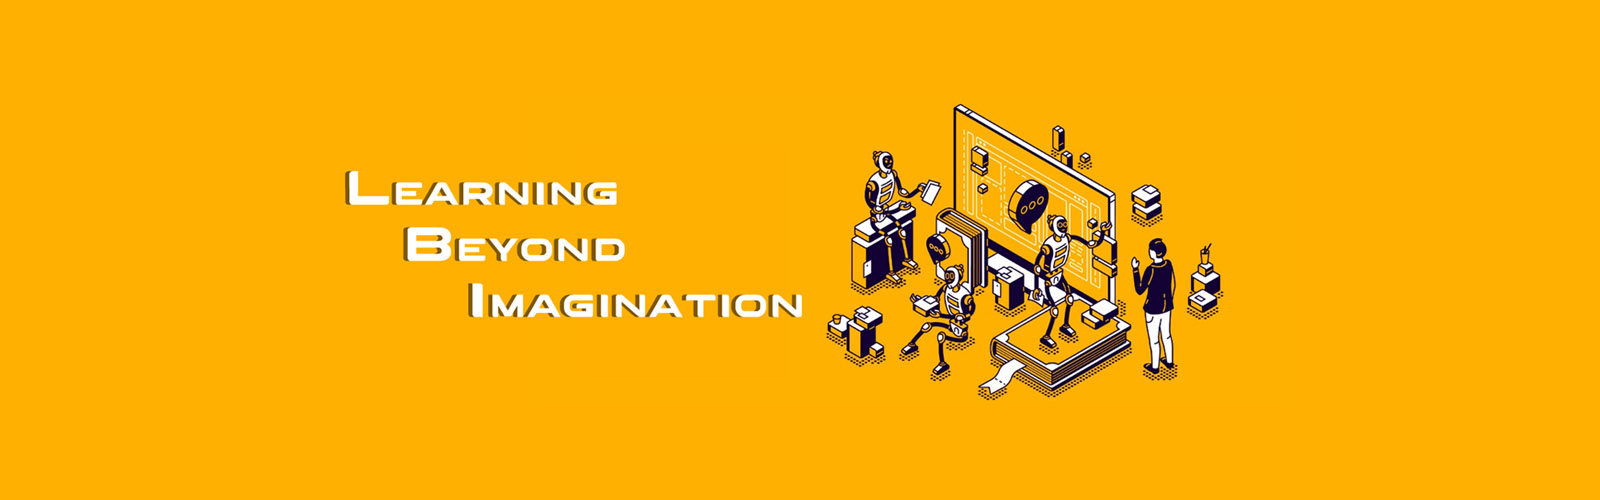
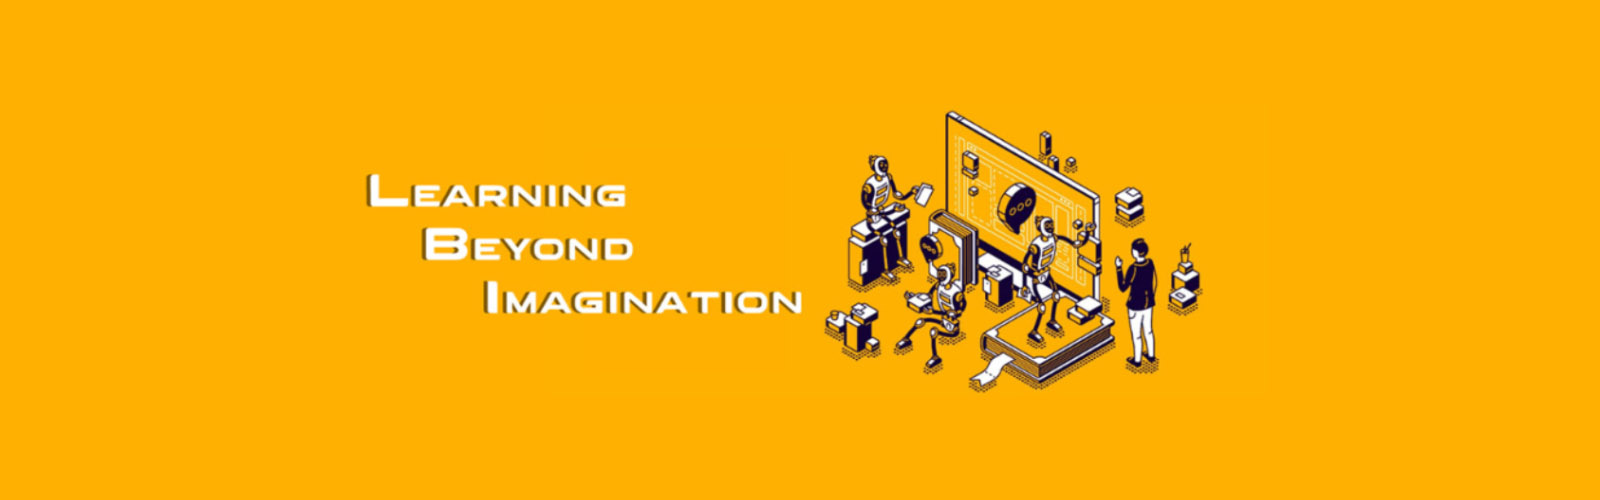
Changes asked

Changed region(s): [[0.25, 0.21, 0.7812, 0.81], [0.2188, 0.33, 0.4062, 0.42]]

diff --git a/about.html b/about.html
@@ -172,13 +172,19 @@
     <div class="row">
       <div class="col-md-7 wow fadeInLeft" data-wow-delay="300ms">
        <h2 class="heading heading_space">Welcome to SS TOPKLAS <span class="divider-left"></span></h2>
-       <p class="bottom25" style="text-align: justify;"> In the last 2 decades, Digital Technologies have entered deeply into the education sector, particularly, K 12 Education. It is common knowledge that digital content is viewed as a Text Book in digital format, Video Lecturing, and other primitive Learning Techniques. The video lectures are very monotonous and boring, thus, achieving very limited success. Hence, we innovated, learner-centric Learning Solutions using Artificial Intelligence (Al), Augmented Reality (AR) and effective purposeful utilization of Touch Screen Technologies with specific objectives: A module for NEET/JEE/ Annual Exam Preparation A Large Data Base of Q&A is built to Learn, Test and Evaluate with following Testing Objectives: Test Level for Class (+1 Or +2)/Subject-Wise/Unit-Wise Performances of Individual/Cumulative/Relative Including Performance Improvement Indicators</p>
+       <p style="text-align: justify;"> In the last 2 decades, Digital Technologies have entered deeply into the education sector, particularly, K 12 Education.</p>
+        <p style="text-align: justify;"> It is common knowledge that digital content is viewed as a Text Book in digital format, Video Lecturing, and other primitive Learning Techniques.</p>
+        <p style="text-align: justify;">  The video lectures are very monotonous and boring, thus, achieving very limited success. Hence,</p>
         
-        <ul style="list-style-type: square; margin-left: 20px" > 
-          <li style="text-align: justify;"><strong>SS Topklas is aimed at aiding and enhancing Class Room Teaching and Self-Learning, and will not isolate these core activities of School Education </strong></li>
-          <li style="text-align: justify;"><strong>Broad-based solution for all students of the class and supplementing the teaching/learning with effective Technological Aids </strong></li>
-          <li style="text-align: justify;"><strong>SS Topklas is customized and mapped to the curriculum — Chapter-wise & Topic-wise</strong></li>
-          <li style="text-align: justify; margin-bottom: 10px;"><strong>Scoring Marks and making learners gain fundamentals and retain the knowledge</strong></li>
+        <ul style="list-style-type: square; margin-left: 30px" > 
+          <li style="text-align: justify;">We innovated, learner-centric Learning Solutions using Artificial Intelligence (Al), Augmented Reality (AR) and effective purposeful utilization of Touch Screen Technologies with specific objectives.</li>
+          <li style="text-align: justify; margin-top: 10px;" >A module for NEET/JEE/ Annual Exam Preparation.</li>
+          <li style="text-align: justify;  margin-top: 10px;">A Large Data Base of Q&A is built to Learn, Test and Evaluate.</li>
+          <li style="text-align: justify;  margin-top: 10px;">Test Level for Class (+1 Or +2) / Subject-Wise/Unit-Wise Performances of Individual/Cumulative/Relative Including Performance Improvement Indicators</li>
+          <li style="text-align: justify;  margin-top: 10px;">SS Topklas is aimed at aiding and enhancing Class Room Teaching and Self-Learning, and will not isolate these core activities of School Education</li>
+          <li style="text-align: justify;  margin-top: 10px;">Broad-based solution for all students of the class and supplementing the teaching/learning with effective Technological Aids</li>
+          <li style="text-align: justify;  margin-top: 10px;">SS Topklas is customized and mapped to the curriculum — Chapter-wise & Topic-wise</li>
+          <li style="text-align: justify;  margin-top: 10px; margin-bottom: 10px;">Scoring Marks and making learners gain fundamentals and retain the knowledge</li>
         </ul>
       </div>
       <div class="col-md-5 wow fadeInRight" data-wow-delay="300ms">
@@ -187,7 +193,7 @@
         </div>
       </div>
       <div style="padding-top:30px; padding-left: 20px; padding-right: 20px;">
-      <p class="heading" style="text-align: justify; padding-top:30px;">Meeeting with Mr.Jayaprakash Gandhi Career Consultant, Mr.Abdul Mageeth and Dr.Mohamed Nabi<span class="divider-left"></span></p>
+      <p class="heading" style="text-align: justify; padding-top:30px;">Meeting with Mr.Jayaprakash Gandhi Career Consultant, Mr.Abdul Mageeth and Dr.Mohamed Nabi<span class="divider-left"></span></p>
       <div id="projects6" class="cbp-caption-active cbp-caption-pushTop cbp-ready">
         <div class="cbp-item">
           <img src="images/15.jpg" alt="">
@@ -214,12 +220,12 @@
         <h4 class="bottom25">AI and AR, Assisted Virtual Lab and Digital Learning Solution for different K12 Classes.</h4>
 
          <ul style="list-style-type: square; margin-left: 20px" > 
-          <li style="text-align: justify; " ><strong>It consists of 4 modules – Dynamic Content, Virtual Learning, Self-Assessment and Search Engines – promoting, anywhere any time within.</strong></li>
-          <li style="text-align: justify; padding-top: 10px;"><strong>Dynamic content module covers the entire syllabus of respective classes. It is built in a book like structure for detailed content coverage.</strong></li>
-          <li style="text-align: justify; padding-top: 10px;"><strong>Visual Demonstrations are embedded across the text content for easy access and meaningful interpretations. </strong></li>
-          <li style="text-align: justify; padding-top: 10px;"><strong>Example and Exercise problems are explained in visually for better understanding. To provide direct relation of what is studied in classroom with day-to-day life.</strong></li>
-          <li style="text-align: justify; padding-top: 10px;"><strong>The learners will be able to move around between visuals and content directly. This offers Engaged and Guided learning in SS  TOPKLAS.</strong></li>
-          <li style="text-align: justify; padding-top: 10px;"><strong>SS TOPKLAS utilizes virtual and modern technology as its backbone to provide students with “Learning Beyond Imagination” Experience. Also, attain high score in assessments/ board / entrances exams by absolute Learning and Self-assessment. </strong></li>
+          <li style="text-align: justify; " >It consists of 4 modules – Dynamic Content, Virtual Learning, Self-Assessment and Search Engines – promoting, anywhere any time within.</li>
+          <li style="text-align: justify; padding-top: 10px;">Dynamic content module covers the entire syllabus of respective classes. It is built in a book like structure for detailed content coverage.</li>
+          <li style="text-align: justify; padding-top: 10px;">Visual Demonstrations are embedded across the text content for easy access and meaningful interpretations. </li>
+          <li style="text-align: justify; padding-top: 10px;">Example and Exercise problems are explained in visually for better understanding. To provide direct relation of what is studied in classroom with day-to-day life.</li>
+          <li style="text-align: justify; padding-top: 10px;">The learners will be able to move around between visuals and content directly. This offers Engaged and Guided learning in SS  TOPKLAS.</li>
+          <li style="text-align: justify; padding-top: 10px;">SS TOPKLAS utilizes virtual and modern technology as its backbone to provide students with “Learning Beyond Imagination” Experience. Also, attain high score in assessments/ board / entrances exams by absolute Learning and Self-assessment. </li>
         </ul>
         <!-- <a class="btn_common blue border_radius" href="#">Read more</a> -->
       </div>

diff --git a/virtual-learning.html b/virtual-learning.html
@@ -153,8 +153,8 @@
   <div class="container">
     <div class="row">
       <div class="col-md-12 page-content">
-        <h1 style="color: #d2164d;">Virtual Learning</h1>
-        <p style="color: #262261;"><strong>SS Topklas enables students to achieve their Goals. Using Well Integrated Automated guided learning Solutions</strong></p>
+        <!-- <h1 style="color: #d2164d;">Virtual Learning</h1>
+        <p style="color: #262261;"><strong>SS Topklas enables students to achieve their Goals. Using Well Integrated Automated guided learning Solutions</strong></p> -->
         <div class="page_nav">
       <span>You are here:</span> <a href="index.html">Home</a> <span><i class="fa fa-angle-double-right"></i>Virtual Learning</span>
       </div>
@@ -181,22 +181,22 @@
         <h3 class="heading ">Video Hub<span class="divider-left"></span></h3>
         <p class="margin10">Every Subject has a Video HUB. Visuals are provided for every topic and Sub-topics. Real-life examples are used in visuals of different concepts</p>
         <ul class="bottom25" style="list-style-type: square; margin-left: 20px" > 
-          <li style="text-align: justify;"><strong>It also helps to understand the way you draw sketches and practice.</strong></li>
-          <li style="text-align: justify;"><strong>The learners will be able to move around between visuals and content directly. This offers Engaged and Guided learning in SS TOPKLAS</strong></li>
+          <li style="text-align: justify;">It also helps to understand the way you draw sketches and practice.</li>
+          <li style="text-align: justify;">The learners will be able to move around between visuals and content directly. This offers Engaged and Guided learning in SS TOPKLAS</li>
         </ul>
         <h3 class="heading">Virtual Lab<span class="divider-left"></span></h3>
         <p class="margin10">Do your Laboratory Experiments in Interactive 3D Dashboards - as you do in lab. It provides end-to-end interactivity with Step-by-step guidance. Simply, it is making invisible to be visible.</p>
          <ul class="bottom25" style="list-style-type: square; margin-left: 20px" > 
-          <li style="text-align: justify;"><strong>Dashboard also supports parameter variation in the experiment. This will result in performance prediction.</strong></li>
-          <li style="text-align: justify;"><strong>More to this is, you can place your experiment setup in your home and execute the experiment.</strong></li>
+          <li style="text-align: justify;">Dashboard also supports parameter variation in the experiment. This will result in performance prediction.</li>
+          <li style="text-align: justify;">More to this is, you can place your experiment setup in your home and execute the experiment.</li>
         </ul>
         <h3 class="heading">Augmented Reality<span class="divider-left"></span></h3>        
         <p class="margin10">It is taking every space in day-to-day life.</p>
          <ul class="bottom25"style="list-style-type: square; margin-left: 20px" > 
-          <li style="text-align: justify;"><strong>In SS Topklas, Augmented reality is developed by using virtual data. It has been superimposed on the real world. It helps to have real form expressions in learning.</strong></li>
-          <li  style="text-align: justify;"><strong>It includes features of Touch & Play with animations.</strong></li>
-          <li style="text-align: justify;"><strong>Reality 3D models are developed for Physics, Chemistry and Biology. These models are linked to content pages for effective utilizations and details about the models. It has been provided across large number of AR models.</strong></li>
-          <li style="text-align: justify; margin-bottom: 10px;"><strong>SS TOPKLAS utilized this to give the students, “Learning Beyond Imagination”.</strong></li>
+          <li style="text-align: justify;">In SS Topklas, Augmented reality is developed by using virtual data. It has been superimposed on the real world. It helps to have real form expressions in learning.</li>
+          <li  style="text-align: justify;">It includes features of Touch & Play with animations.</li>
+          <li style="text-align: justify;">Reality 3D models are developed for Physics, Chemistry and Biology. These models are linked to content pages for effective utilizations and details about the models. It has been provided across large number of AR models.</li>
+          <li style="text-align: justify; margin-bottom: 10px;">SS TOPKLAS utilized this to give the students, “Learning Beyond Imagination”.</li>
         </ul>
         <div class="quote bottom25">
         <a href="contact.html" class="btn_common yellow border_radius">Contact Us</a>

diff --git a/dynamic-content.html b/dynamic-content.html
@@ -153,8 +153,8 @@
   <div class="container">
     <div class="row">
       <div class="col-md-12 page-content">
-        <h1 style="color: #d2164d;">Dynamic Content</h1>
-        <p style="color: #262261;"><strong>SS Topklas enables students to achieve their Goals. Using Well Integrated Automated guided learning Solutions</strong></p>
+        <!-- <h1 style="color: #d2164d;">Dynamic Content</h1>
+        <p style="color: #262261;"><strong>SS Topklas enables students to achieve their Goals. Using Well Integrated Automated guided learning Solutions</strong></p> -->
         <div class="page_nav">
       <span>You are here:</span> <a href="index.html">Home</a> <span><i class="fa fa-angle-double-right"></i>Dynamic Content</span>
       </div>
@@ -176,10 +176,10 @@
       <div class="col-md-7 col-sm-7 shop_info wow fadeInRight" data-wow-delay="400ms">
         <h2 class="heading bottom25">Dynamic Content<span class="divider-left"></span></h2>
         <ul style="list-style-type: square; margin-left: 20px" > 
-          <li style="text-align: justify;"><strong>Dynamic content module covers the entire syllabus of respective classes. It is built Book like Structure for detailed content coverage.</strong></li>
-          <li style="text-align: justify;"><strong>Visual Demonstrations are embedded across the text content for easy access and meaningful interpretations</strong></li>
-          <li style="text-align: justify;"><strong>AI-assisted, Automated Guided Learning is implemented for better retention</strong></li>
-          <li style="text-align: justify; margin-bottom: 10px;"><strong>Example and Exercise problems are explained in visually for better understanding. This gives direct relation of what is studied in classroom and day-to-day life</strong></li>
+          <li style="text-align: justify;">Dynamic content module covers the entire syllabus of respective classes. It is built Book like Structure for detailed content coverage.</li>
+          <li style="text-align: justify;">Visual Demonstrations are embedded across the text content for easy access and meaningful interpretations</li>
+          <li style="text-align: justify;">AI-assisted, Automated Guided Learning is implemented for better retention</li>
+          <li style="text-align: justify; margin-bottom: 10px;">Example and Exercise problems are explained in visually for better understanding. This gives direct relation of what is studied in classroom and day-to-day life</li>
         </ul>
         <div class="quote bottom25">
         <a href="contact.html" class="btn_common yellow border_radius">Contact Us</a>

diff --git a/css/style.css b/css/style.css
@@ -1806,63 +1806,63 @@ body.pushmenu-push-toright .wrap-sticky nav.navbar.bootsnav.sticked{
 }
 .page_header{
 	background:url(../images/page-tittle.jpg) no-repeat;
-	padding:15% 0 0 0;
+	padding:25% 0 0 0;
 }
 .page_header1{
 	background:url(../images/learning-solutions.jpg) no-repeat;
-	padding:15% 0 0 0;
+	padding:25% 0 0 0;
 }
 .page_header2{
 	background:url(../images/dynamic-content.jpg) no-repeat;
-	padding:15% 0 0 0;
+	padding:25% 0 0 0;
 }
 .page_header3{
 	background:url(../images/virtual-learning.jpg) no-repeat;
-	padding:15% 0 0 0;
+	padding:25% 0 0 0;
 }
 .page_header4{
 	background:url(../images/self-assessment.jpg) no-repeat;
-	padding:15% 0 0 0;
+	padding:25% 0 0 0;
 }
 .page_header5{
 	background:url(../images/search_engine.jpg) no-repeat;
-	padding:15% 0 0 0;
+	padding:25% 0 0 0;
 }
 .page_header6{
 	background:url(../images/self-assessment.jpg) no-repeat;
-	padding:15% 0 0 0;
+	padding:25% 0 0 0;
 }
 .page_header7{
 	background:url(../images/self-assessment.jpg) no-repeat;
-	padding:15% 0 0 0;
+	padding:25% 0 0 0;
 }
 .page_header8{
 	background:url(../images/self-assessment.jpg) no-repeat;
-	padding:15% 0 0 0;
+	padding:25% 0 0 0;
 }
 .page_header9{
 	background:url(../images/self-assessment.jpg) no-repeat;
-	padding:15% 0 0 0;
+	padding:25% 0 0 0;
 }
 .page_header10{
 	background:url(../images/self-assessment.jpg) no-repeat;
-	padding:15% 0 0 0;
+	padding:25% 0 0 0;
 }
 .page_header11{
 	background:url(../images/self-assessment.jpg) no-repeat;
-	padding:15% 0 0 0;
+	padding:25% 0 0 0;
 }
 .page_header12{
 	background:url(../images/self-assessment.jpg) no-repeat;
-	padding:15% 0 0 0;
+	padding:25% 0 0 0;
 }
 .page_header13{
 	background:url(../images/self-assessment.jpg) no-repeat;
-	padding:15% 0 0 0;
+	padding:25% 0 0 0;
 }
 .page_header14{
 	background:url(../images/self-assessment.jpg) no-repeat;
-	padding:15% 0 0 0;
+	padding:25% 0 0 0;
 }
 #counter{
 	background:url(../images/counter.jpg) no-repeat;
@@ -2794,6 +2794,7 @@ nav.navbar.bootsnav #menu_bars{
 #courses , #parallax, .page_header, #counter{
 	background-position:center center !important;
 	/*visibility: hidden;*/
+	background-attachment: revert;
 }
 .detail_course .info_label:last-child{
 	display:block;
@@ -2894,7 +2895,8 @@ height: 100%;
 }
 
 #parallax {
-	visibility: hidden;
+/*	visibility: hidden;*/
+	display: none;
 }
 .padding-top-1 {
 	padding-top: 128px;
@@ -2920,6 +2922,7 @@ height: 100%;
 	 
 .page_header .page-content .page_nav{
   width: 100%;
+  background-attachment: revert;
 }
 .scrollToTop{
 	right:15px;

diff --git a/self-assessment.html b/self-assessment.html
@@ -153,8 +153,8 @@
   <div class="container">
     <div class="row">
       <div class="col-md-12 page-content">
-        <h1 style="color: #d2164d;">Self-Assessment</h1>
-        <p style="color: #262261;"><strong>SS Topklas enables students to achieve their Goals. Using Well Integrated Automated guided learning Solutions</strong></p>
+        <!-- <h1 style="color: #d2164d;">Self-Assessment</h1>
+        <p style="color: #262261;"><strong>SS Topklas enables students to achieve their Goals. Using Well Integrated Automated guided learning Solutions</strong></p> -->
         <div class="page_nav">
       <span>You are here:</span> <a href="index.html">Home</a> <span><i class="fa fa-angle-double-right"></i>Self-Assessment</span>
       </div>
@@ -178,9 +178,9 @@
       <div class="col-md-7 col-sm-7 shop_info wow fadeInRight" data-wow-delay="400ms">
         <h2 class="heading bottom25">Self-Assessment<span class="divider-left"></span></h2>
          <ul class="bottom25" style="list-style-type: square; margin-left: 20px" > 
-          <li style="text-align: justify;"><strong>SS Topklas is using AI creating a  tool for student to score better. By large collection of questions and Answers.</strong></li>
-          <li style="text-align: justify;"><strong>The SS TOPKLAS gives equal weightage to Annual Board and Premier Institutes Entrance Exams.</strong></li>
-          <li style="text-align: justify;"><strong>At the end of the assessment, the learner will get a complete performance analysis.</strong></li>
+          <li style="text-align: justify;">SS Topklas is using AI creating a  tool for student to score better. By large collection of questions and Answers.</li>
+          <li style="text-align: justify;">The SS TOPKLAS gives equal weightage to Annual Board and Premier Institutes Entrance Exams.</li>
+          <li style="text-align: justify;">At the end of the assessment, the learner will get a complete performance analysis.</li>
         </ul>
         <div class="quote bottom25">
         <a href="contact.html" class="btn_common yellow border_radius">Contact Us</a>

diff --git a/e-governance.html b/e-governance.html
@@ -180,17 +180,17 @@
         <p></p>
         <p class="margin10">For the entire department and their various sections like</p>
         <ul style="list-style-type: square; margin-left: 20px" > 
-          <li style="text-align: justify;"><strong>Press Release Section</strong></li>
-          <li style="text-align: justify;"><strong>Photo Section</strong></li>
-          <li style="text-align: justify;"><strong>Reference Section</strong></li>
-          <li style="text-align: justify;"><strong>Exhibitions Section</strong></li>
-          <li style="text-align: justify;"><strong>Advertisement Section</strong></li>
-          <li style="text-align: justify;"><strong>Tamil Arasu</strong></li>
-          <li style="text-align: justify;"><strong>Memorials</strong></li>
-          <li style="text-align: justify;"><strong>Government Functions</strong></li>
-          <li style="text-align: justify;"><strong>Cine Workers Welfare Board</strong></li>
-          <li style="text-align: justify;"><strong>Tamilnadu Film Division</strong></li>
-          <li style="text-align: justify; margin-bottom: 10px;"><strong>Govt. Film & Television Training Institute</strong></li>
+          <li style="text-align: justify;">Press Release Section</li>
+          <li style="text-align: justify;">Photo Section</li>
+          <li style="text-align: justify;">Reference Section</li>
+          <li style="text-align: justify;">Exhibitions Section</li>
+          <li style="text-align: justify;">Advertisement Section</li>
+          <li style="text-align: justify;">Tamil Arasu</li>
+          <li style="text-align: justify;">Memorials</li>
+          <li style="text-align: justify;">Government Functions</li>
+          <li style="text-align: justify;">Cine Workers Welfare Board</li>
+          <li style="text-align: justify;">Tamilnadu Film Division</li>
+          <li style="text-align: justify; margin-bottom: 10px;">Govt. Film & Television Training Institute</li>
         </ul>
 
         <h3 class="heading">Implemented In<span class="divider-left"></span></h3>

diff --git a/index.html b/index.html
@@ -315,6 +315,55 @@
 </section>
 <!--Paralax -->
 
+<section id="teachers" class="padding">
+  <div class="container">
+    <div class="row">
+      <div class="col-md-12 text-center wow fadeInDown">
+       <h2 class="heading">Our Happy Clients<span class="divider-center"></span></h2>
+       <p class="heading_space margin10">We innovate & develop learning and virtual lab solutions tailored for  K12</p>
+      </div>
+    </div>
+    <div class="row">
+      <div class="col-md-12">
+        <div class="slider_wrapper">
+          <div id="director_slider" class="owl-carousel">
+            <div class="item">
+              <div class="image bottom25">
+                <img src="images/cli-1.png" alt="" class=" border_radius">
+              </div>
+            </div>
+            <div class="item">
+              <div class="image bottom25">
+                <img src="images/cli-2.png" alt="" class=" border_radius">
+              </div>
+            </div>
+            <div class="item">
+              <div class="image bottom25">
+                <img src="images/cli-3.png" alt="" class=" border_radius">
+              </div>
+            </div>
+            <div class="item">
+              <div class="image bottom25">
+                <img src="images/cli-4.png" alt="" class=" border_radius">
+              </div>
+            </div>
+            <div class="item">
+              <div class="image bottom25">
+                <img src="images/cli-5.png" alt="" class=" border_radius">
+              </div>
+            </div>
+            <div class="item">
+              <div class="image bottom25">
+                <img src="images/cli-6.png" alt="" class=" border_radius">
+              </div>
+            </div>
+          </div>
+        </div>
+      </div>
+    </div>
+  </div>
+</section>
+
 <!--Testimonial-->
 <section id="reviews" class="padding bg_light">
   <div class="container">

diff --git a/learning-solution.html b/learning-solution.html
@@ -153,8 +153,8 @@
   <div class="container">
     <div class="row">
       <div class="col-md-12 page-content">
-        <h1 style="color: #d2164d;">Learning Solution</h1>
-        <p style="color: #262261;"><strong>SS Topklas enables students to achieve their Goals. Using Well Integrated Automated guided learning Solutions</strong></p>
+       <!--  <h1 style="color: #d2164d;">Learning Solution</h1>
+        <p style="color: #262261;"><strong>SS Topklas enables students to achieve their Goals. Using Well Integrated Automated guided learning Solutions</strong></p> -->
         <div class="page_nav">
       <span>You are here:</span> <a href="index.html">Home</a> <span><i class="fa fa-angle-double-right"></i>Learning Solution</span>
       </div>
@@ -180,10 +180,10 @@
         <p class="margin10">SS Topklas aims to brings-in millennium technologies for engaged learning, better understanding, and as a aid to attain higher scoring for students. It consists of 4 modules </p>
 
         <ul style="list-style-type: square; margin-left: 20px" > 
-          <li style="text-align: justify;"><strong>Dynamic Content</strong></li>
-          <li style="text-align: justify;"><strong>Virtual Learning</strong></li>
-          <li style="text-align: justify;"><strong>Self-Assessment</strong></li>
-          <li style="text-align: justify; margin-bottom: 10px;"><strong>Search Engine</strong></li>
+          <li style="text-align: justify;">Dynamic Content</li>
+          <li style="text-align: justify;">Virtual Learning</li>
+          <li style="text-align: justify;">Self-Assessment</li>
+          <li style="text-align: justify; margin-bottom: 10px;">Search Engine</li>
         </ul>
         <div class="quote bottom25">
         <a href="contact.html" class="btn_common yellow border_radius">Contact Us</a>

diff --git a/search-engine.html b/search-engine.html
@@ -150,8 +150,8 @@
   <div class="container">
     <div class="row">
       <div class="col-md-12 page-content">
-        <h1 style="color: #d2164d;">Search Engine</h1>
-        <p style="color: #262261;"><strong>SS Topklas enables students to achieve their Goals. Using Well Integrated Automated guided learning Solutions</strong></p>
+        <!-- <h1 style="color: #d2164d;">Search Engine</h1>
+        <p style="color: #262261;"><strong>SS Topklas enables students to achieve their Goals. Using Well Integrated Automated guided learning Solutions</strong></p> -->
         <div class="page_nav">
       <span>You are here:</span> <a href="index.html">Home</a> <span><i class="fa fa-angle-double-right"></i>Search Engine</span>
       </div>
